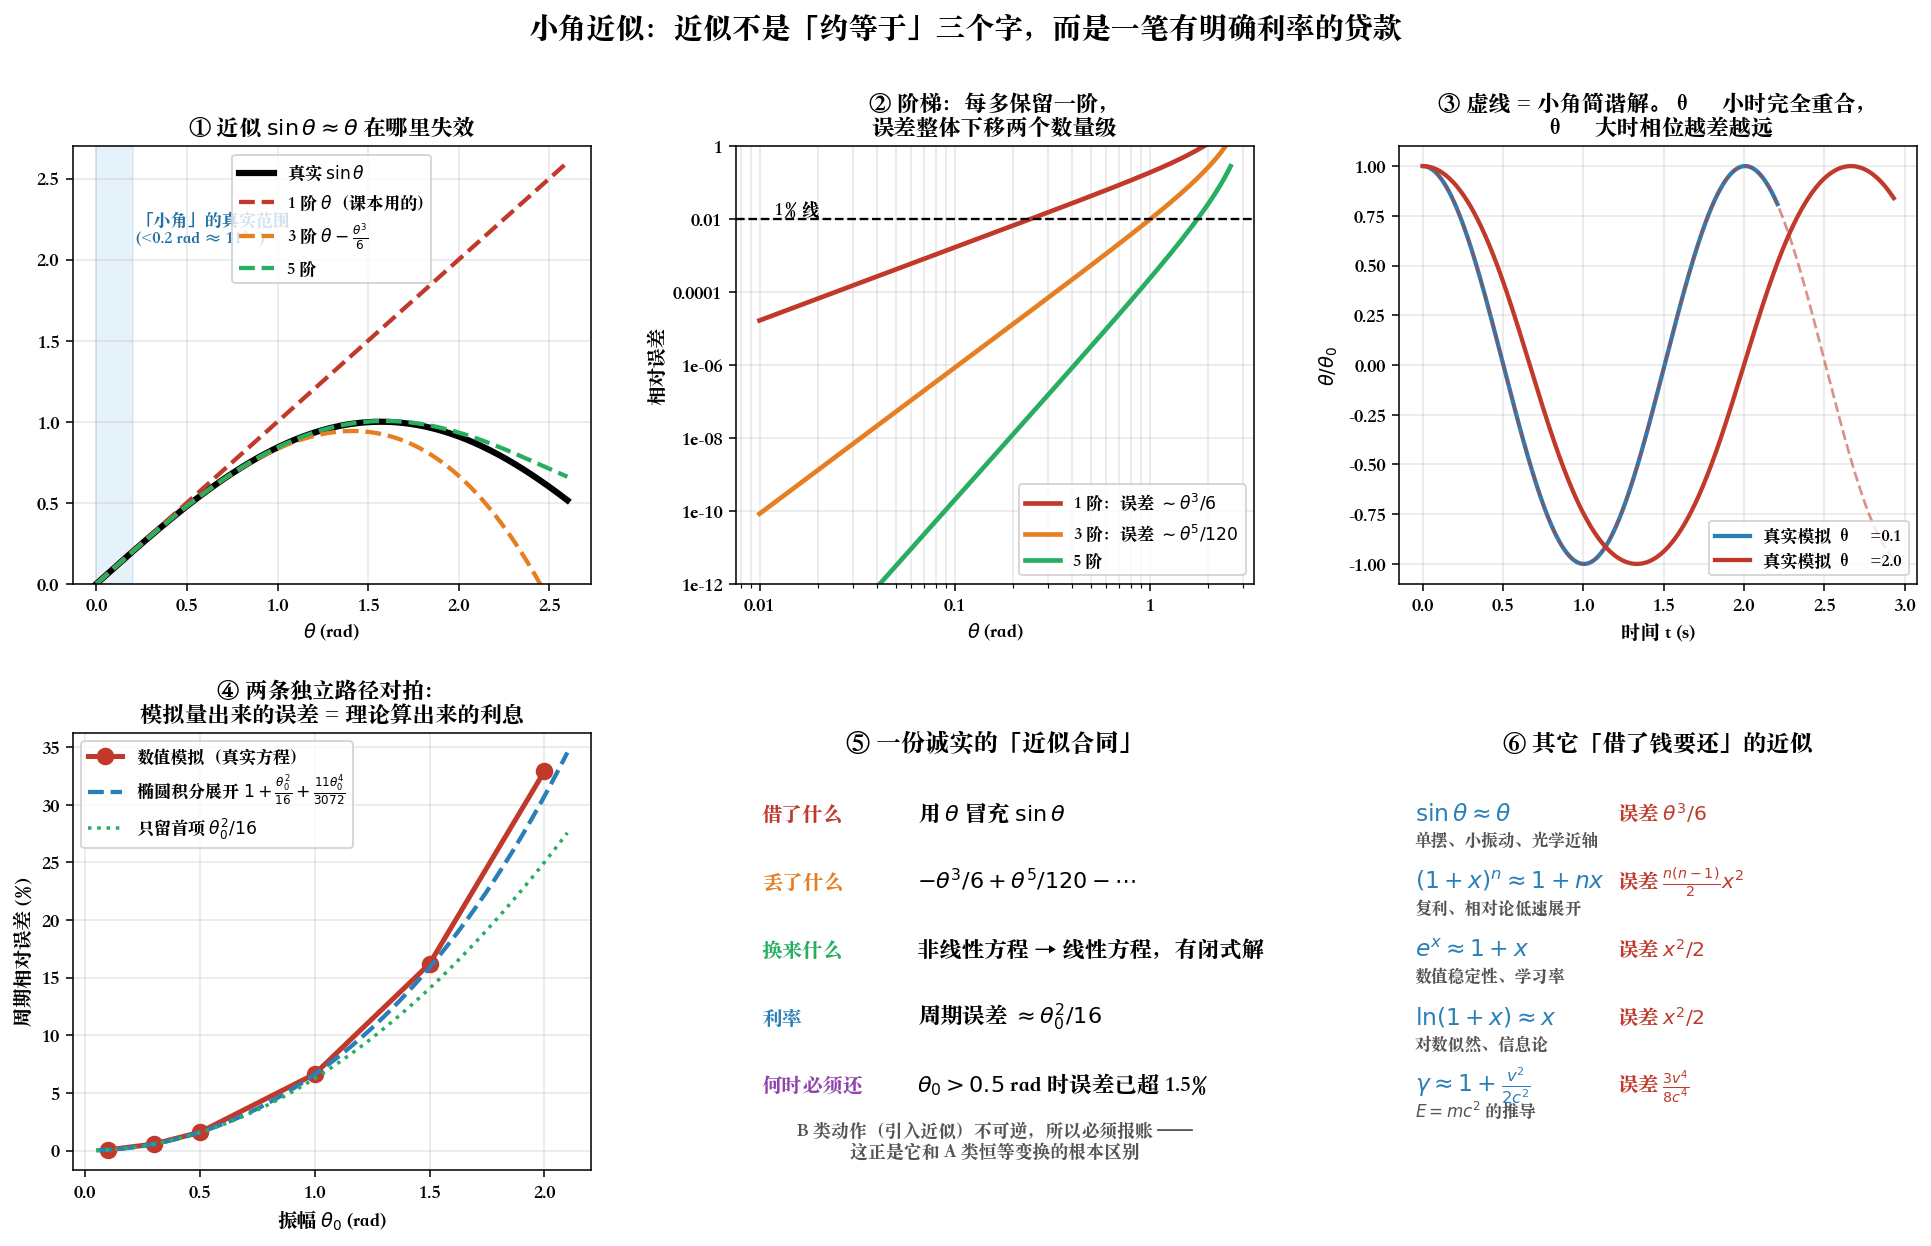
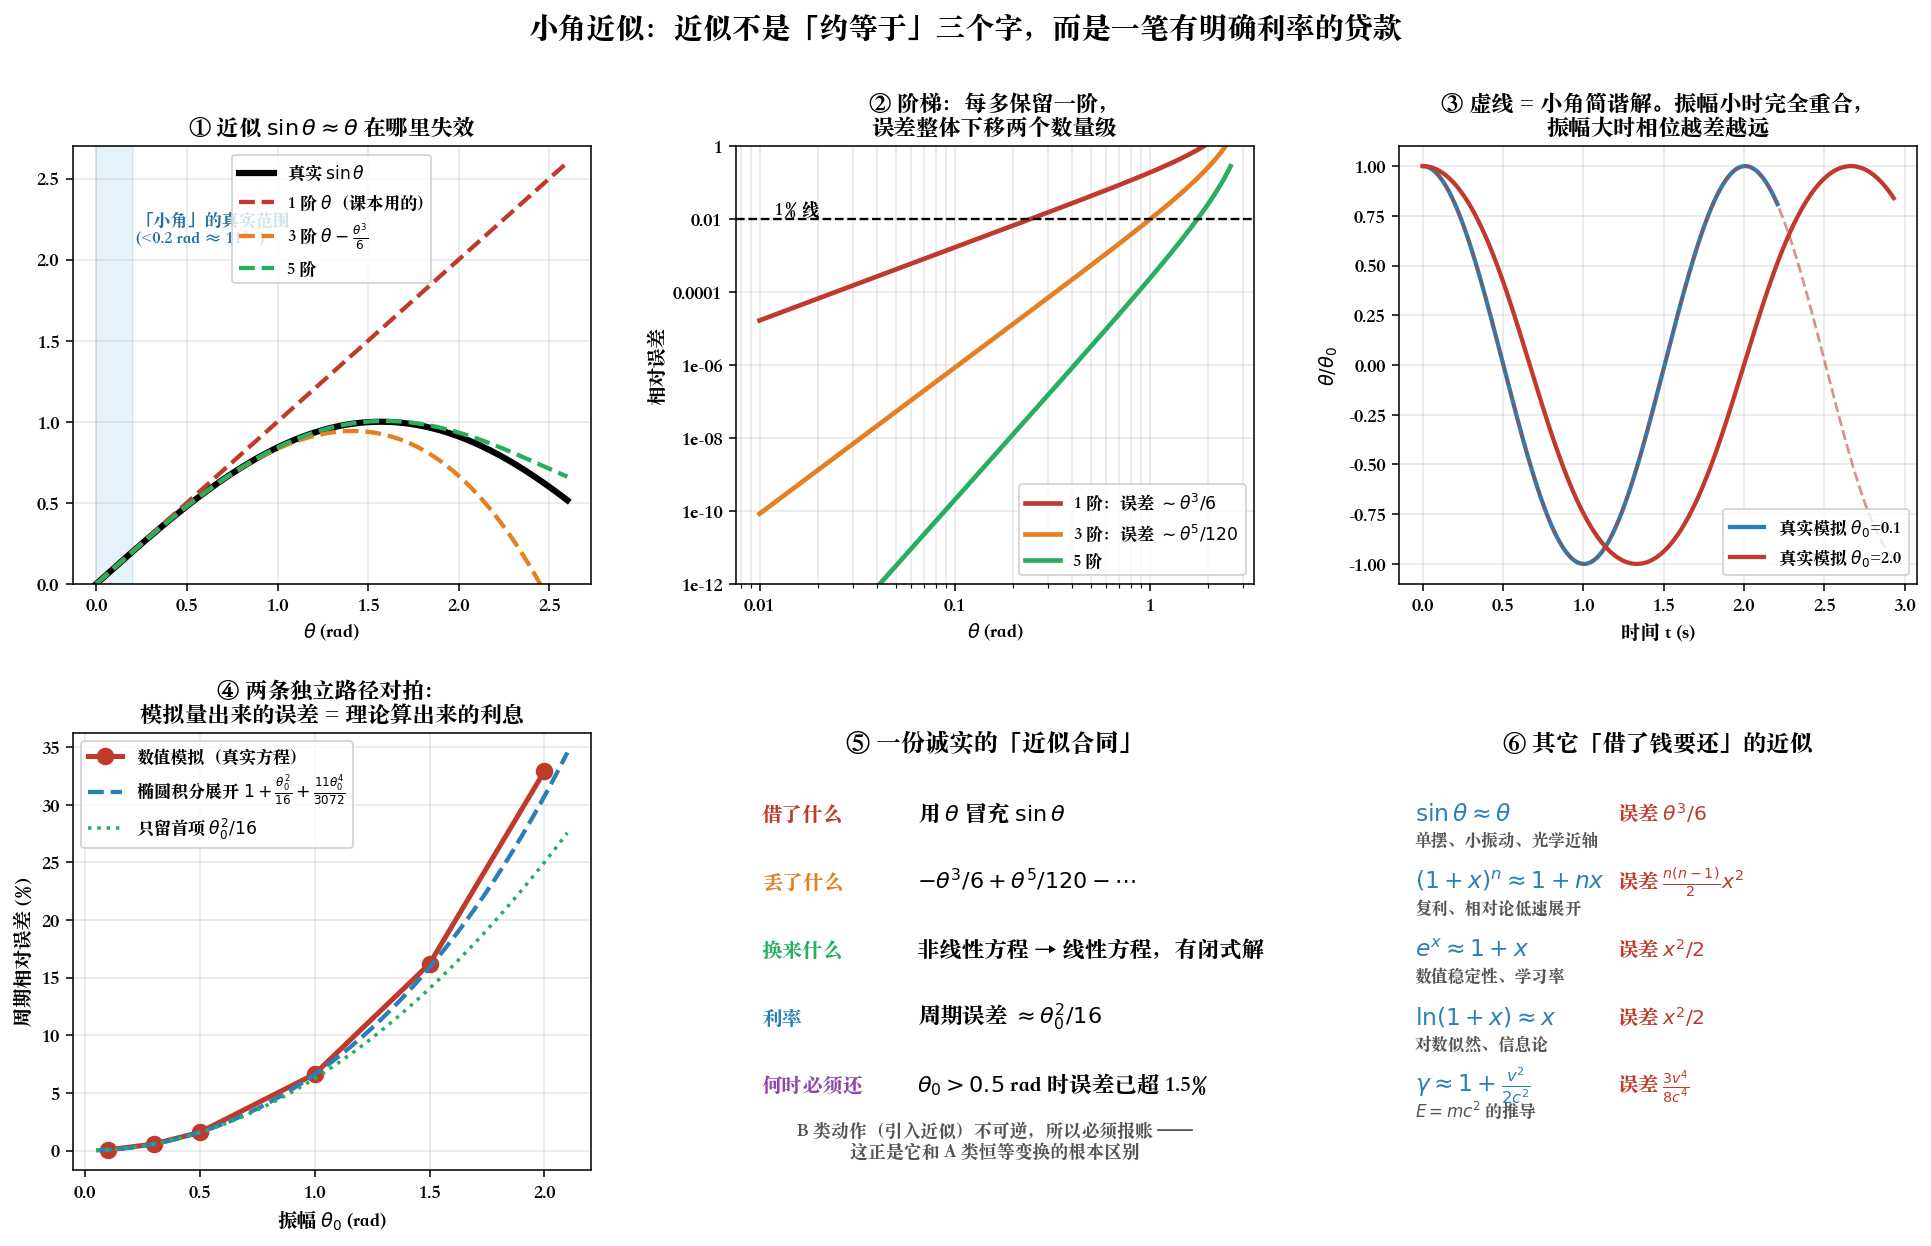
update

Changed region(s): [[0.7457, 0.061, 0.9632, 0.122], [0.87, 0.3965, 0.9943, 0.4575]]

diff --git a/ch00_98_deriving_formulas/derivation_fallacies.py b/ch00_98_deriving_formulas/derivation_fallacies.py
@@ -1,0 +1,251 @@
+"""derivation_fallacies.py
+================================================================================
+Chapter 0.98.5 · 推导是怎么坏掉的：五个经典陷阱与它们的崩溃点定位
+
+课本只给你走通了的那条路，从不给你看走死的那四十条。
+这个脚本反过来：**故意把推导做坏，然后精确定位它在第几步崩掉。**
+
+五个陷阱：
+  ① 除以可能为零的量        a² = ab  ⇒  a = b  （1 = 2 的经典假证明）
+  ② 换元忘掉雅可比          极坐标积分漏掉 r，答案差一个 √π 因子
+  ③ 近似阶数不齐            保留了 v² 却丢了另一个同阶项
+  ④ 随意交换极限/求和次序    条件收敛级数重排，可以收敛到任何数（黎曼重排定理）
+  ⑤ 循环论证                用结论的推论去证结论
+
+**每一次「两边同除」，都是一次没写出来的 `assert divisor != 0`。**
+大多数假证明都死在这一行缺失的断言上。
+
+Lean 版本见同目录 `CancelFallacy.lean` —— 那里更狠：
+**Lean 根本不让你写出那一步**，除非你先交出 `a - b ≠ 0` 的证明。
+
+可视化：
+  ① 1=2 假证明的逐步追踪：每步都对，直到某一步除数变成 0
+  ② 雅可比丢失的后果：三条路径的数值分叉
+  ③ 阶数不齐：只补一半的高阶项，误差反而不降
+  ④ 黎曼重排：同一个级数按不同顺序求和，收敛到不同的数
+  ⑤ 防御清单
+
+运行：  python ch00_98_deriving_formulas/derivation_fallacies.py
+================================================================================
+"""
+
+from pathlib import Path
+
+import matplotlib.pyplot as plt
+import numpy as np
+import sympy as sp
+from matplotlib.ticker import FuncFormatter
+
+PLAIN = FuncFormatter(lambda v, _: f"{v:g}")
+
+
+def fallacy_divide_by_zero():
+    """① 1 = 2：每一步都对，直到那一步。"""
+    a, b = sp.symbols('a b')
+    print("=" * 74)
+    print("陷阱 ① 除以可能为零的量 —— 经典的「1 = 2」")
+    print("=" * 74)
+    # 存成 (说明, 左边, 右边)，不能直接用 sp.Eq —— Eq(2,1) 会当场求值成 False
+    steps = [
+        ("设 a = b", a, b),
+        ("两边乘 a", a ** 2, a * b),
+        ("两边减 b²", a ** 2 - b ** 2, a * b - b ** 2),
+        ("因式分解", (a + b) * (a - b), b * (a - b)),
+        ("两边除以 (a-b)  ← 崩溃点", a + b, b),
+        ("代入 a = b", 2 * b, b),
+        ("两边除以 b", sp.Integer(2), sp.Integer(1)),
+    ]
+    for i, (what, lhs, rhs) in enumerate(steps, 1):
+        # 在 a = b 这个前提下检验每一步是否真的成立
+        holds = sp.simplify((lhs - rhs).subs(a, b)) == 0
+        mark = "OK  " if holds else "FAIL"
+        print(f"  第{i}步  [{mark}] {what:<28} {sp.Eq(lhs, rhs, evaluate=False)}")
+    print("\n  崩溃点在第 5 步：a = b ⇒ a - b = 0，而我们除以了它。")
+    print(f"  Sympy 也这么说： solve(a - b = 0, a) = {sp.solve(sp.Eq(a-b, 0), a)}")
+    print("  防御：每一次「两边同除」，都是一次没写出来的 assert divisor != 0")
+    return steps
+
+
+def fallacy_jacobian():
+    """② 换元忘掉雅可比。"""
+    r, th, x = sp.symbols('r theta x', positive=True)
+    good = sp.sqrt(sp.integrate(sp.exp(-r ** 2) * r, (r, 0, sp.oo)) * 2 * sp.pi)
+    bad = sp.sqrt(sp.integrate(sp.exp(-r ** 2), (r, 0, sp.oo)) * 2 * sp.pi)
+    truth = sp.integrate(sp.exp(-x ** 2), (x, -sp.oo, sp.oo))
+    print("\n" + "=" * 74)
+    print("陷阱 ② 换元忘掉雅可比")
+    print("=" * 74)
+    print(f"  正确（dx dy = r dr dθ）: I = {good}  = {float(good):.6f}")
+    print(f"  漏掉 r                : I = {sp.simplify(bad)}  = {float(bad):.6f}")
+    print(f"  真值（一维直接积分）  : I = {truth}  = {float(truth):.6f}")
+    print("  防御：换元后立刻做一次数值对拍，雅可比丢没丢，一眼看出")
+    return float(good), float(bad)
+
+
+def fallacy_mixed_order():
+    """③ 近似阶数不齐：只补一半的二阶项，误差不降反可能更糟。"""
+    print("\n" + "=" * 74)
+    print("陷阱 ③ 近似阶数不齐")
+    print("=" * 74)
+    print("  要算 f(x) = e^x · cos(x)，两边都展开到二阶才算「齐」：")
+    x = np.linspace(0, 1.2, 300)
+    exact = np.exp(x) * np.cos(x)
+    consistent = 1 + x                                   # 齐次一阶：e^x≈1+x, cos≈1
+    inconsistent = (1 + x + x ** 2 / 2) * 1              # 只给 e^x 补了二阶，cos 没补
+    both2 = (1 + x + x ** 2 / 2) * (1 - x ** 2 / 2)      # 两边都到二阶
+    for name, arr in (("一阶（齐）", consistent), ("阶数不齐", inconsistent),
+                      ("二阶（齐）", both2)):
+        print(f"    {name:<12} x=1.0 处误差 = "
+              f"{abs(np.interp(1.0, x, arr) - np.interp(1.0, x, exact)):.4f}")
+    print("  防御：全程统一展开到同一阶 —— 精度被最差的那一项拖死")
+    return x, exact, consistent, inconsistent, both2
+
+
+def fallacy_riemann():
+    """④ 随意交换求和次序：条件收敛级数可以重排到任何值。"""
+    print("\n" + "=" * 74)
+    print("陷阱 ④ 随意交换极限 / 求和次序（黎曼重排定理，1854）")
+    print("=" * 74)
+    n = 200_000
+    natural = sum((-1) ** (k + 1) / k for k in range(1, n + 1))
+    print(f"  自然次序 1 - 1/2 + 1/3 - ... = {natural:.6f}   (→ ln2 = {np.log(2):.6f})")
+    # 重排：两正一负
+    s, pos, neg = 0.0, 1, 2
+    order = []
+    for _ in range(n // 3):
+        s += 1 / pos + 1 / (pos + 2) - 1 / neg
+        order.append(s)
+        pos += 4
+        neg += 2
+    print(f"  重排（两正一负）      = {s:.6f}   (→ (3/2)ln2 = {1.5*np.log(2):.6f})")
+    print("  同一堆数，只是加的顺序不同，答案就变了 —— 因为它只是条件收敛")
+    print("  防御：交换次序需要绝对收敛 / 一致收敛；先做有限截断数值验证")
+    return np.array(order)
+
+
+def main():
+    steps = fallacy_divide_by_zero()
+    good, bad = fallacy_jacobian()
+    x, exact, consistent, inconsistent, both2 = fallacy_mixed_order()
+    order = fallacy_riemann()
+
+    print("\n" + "=" * 74)
+    print("陷阱 ⑤ 循环论证")
+    print("=" * 74)
+    print("  例：用 E=mc² 推出光子动量 p=E/c，再用 p=E/c 去「推」E=mc²。")
+    print("  这条链没有起点，什么也没证明。")
+    print("  防御：画依赖图 —— 每条前提从哪来？能不能追溯到实验事实或公理？")
+
+    fig = plt.figure(figsize=(17, 9.5))
+    gs = fig.add_gridspec(2, 3, hspace=.36, wspace=.28)
+
+    # ---- ① 1=2 的逐步追踪 --------------------------------------------------
+    ax = fig.add_subplot(gs[0, :2])
+    ax.axis("off")
+    ax.text(.5, .97, "① 「1 = 2」的逐步审计：崩溃点在第 5 步", ha="center",
+            transform=ax.transAxes, fontsize=13, fontweight="bold")
+    a, b = sp.symbols('a b')
+    for i, (what, lhs, rhs) in enumerate(steps):
+        holds = sp.simplify((lhs - rhs).subs(a, b)) == 0
+        y = .84 - i * .118
+        col = "#27ae60" if holds else "#c0392b"
+        ax.add_patch(plt.Rectangle((.02, y - .04), .075, .085, transform=ax.transAxes,
+                                   fc=col, ec="none"))
+        ax.text(.057, y, "OK" if holds else "FAIL", ha="center", va="center",
+                transform=ax.transAxes, fontsize=9.5, color="white", fontweight="bold")
+        ax.text(.12, y, f"${sp.latex(sp.Eq(lhs, rhs, evaluate=False))}$",
+                va="center", transform=ax.transAxes,
+                fontsize=14, color="k" if holds else "#c0392b")
+        ax.text(.46, y, what, va="center", transform=ax.transAxes, fontsize=10,
+                color="#555")
+        if not holds and i == 4:
+            ax.annotate("这里除以了 (a-b)，\n而 a=b ⇒ a-b=0",
+                        xy=(.44, y), xytext=(.66, y + .07), xycoords="axes fraction",
+                        fontsize=10, color="#c0392b", fontweight="bold",
+                        arrowprops=dict(arrowstyle="-|>", color="#c0392b", lw=2))
+    ax.text(.5, .03, "每一次「两边同除」，都是一次没写出来的 assert divisor != 0",
+            ha="center", transform=ax.transAxes, fontsize=10.5, style="italic",
+            color="#c0392b")
+
+    # ---- ② 雅可比 ----------------------------------------------------------
+    ax = fig.add_subplot(gs[0, 2])
+    ax.bar(["带雅可比\n（正确）", "漏掉 r\n（错误）", "一维真值\n（对拍）"],
+           [good, bad, float(np.sqrt(np.pi))],
+           color=["#27ae60", "#c0392b", "#2980b9"])
+    ax.axhline(np.sqrt(np.pi), color="#2980b9", ls="--", lw=1.4)
+    for i, v in enumerate([good, bad, np.sqrt(np.pi)]):
+        ax.text(i, v + .05, f"{v:.4f}", ha="center", fontsize=10, fontweight="bold")
+    ax.set_ylim(0, 2.9)
+    ax.set_title("② 换元忘雅可比：\n答案差一个因子，全盘皆错",
+                 fontsize=11.5, fontweight="bold")
+    ax.grid(alpha=.3, axis="y")
+
+    # ---- ③ 阶数不齐 --------------------------------------------------------
+    ax = fig.add_subplot(gs[1, 0])
+    ax.plot(x, exact, lw=3, color="k", label=r"真值 $e^x\cos x$")
+    ax.plot(x, consistent, lw=2.2, ls="--", color="#27ae60", label="一阶（齐）")
+    ax.plot(x, inconsistent, lw=2.2, ls="--", color="#c0392b",
+            label=r"阶数不齐（只给 $e^x$ 补二阶）")
+    ax.plot(x, both2, lw=2.2, ls="--", color="#2980b9", label="二阶（齐）")
+    ax.set_xlabel("x")
+    ax.set_title("③ 只补一半的高阶项，\n反而比老实的低阶近似更差",
+                 fontsize=11.5, fontweight="bold")
+    ax.legend(fontsize=8.8)
+    ax.grid(alpha=.3)
+
+    # ---- ④ 黎曼重排 --------------------------------------------------------
+    ax = fig.add_subplot(gs[1, 1])
+    n = np.arange(1, len(order) + 1)
+    ax.plot(n, order, lw=2, color="#c0392b", label="重排（两正一负）")
+    partial = np.cumsum([(-1) ** (k + 1) / k for k in range(1, len(order) + 1)])
+    ax.plot(n, partial, lw=2, color="#2980b9", label="自然次序")
+    ax.axhline(np.log(2), color="#2980b9", ls="--", lw=1.3)
+    ax.axhline(1.5 * np.log(2), color="#c0392b", ls="--", lw=1.3)
+    ax.text(len(order) * .55, np.log(2) - .06, r"$\ln 2$", fontsize=10, color="#2980b9")
+    ax.text(len(order) * .55, 1.5 * np.log(2) + .02, r"$\frac{3}{2}\ln 2$",
+            fontsize=10, color="#c0392b")
+    ax.set_xscale("log")
+    ax.xaxis.set_major_formatter(PLAIN)
+    ax.set_xlabel("累加了多少项")
+    ax.set_ylim(.4, 1.2)
+    ax.set_title("④ 黎曼重排：同一堆数，\n换个加法顺序就换了极限",
+                 fontsize=11.5, fontweight="bold")
+    ax.legend(fontsize=9, loc="lower right")
+    ax.grid(alpha=.3, which="both")
+
+    # ---- ⑤ 防御清单 --------------------------------------------------------
+    ax = fig.add_subplot(gs[1, 2])
+    ax.axis("off")
+    ax.text(.5, .96, "⑤ 五条防御", ha="center", transform=ax.transAxes,
+            fontsize=12.5, fontweight="bold")
+    rows = [
+        ("除以零", "每次消去都问「它可能为零吗」"),
+        ("忘雅可比", "换元后立刻数值对拍"),
+        ("阶数不齐", "全程统一展开到同一阶"),
+        ("换序", "先有限截断验证，再谈极限"),
+        ("循环论证", "画依赖图，追到实验事实或公理为止"),
+    ]
+    for i, (k, v) in enumerate(rows):
+        y = .78 - i * .155
+        ax.text(.05, y, k, transform=ax.transAxes, fontsize=11,
+                fontweight="bold", color="#c0392b")
+        ax.text(.05, y - .06, v, transform=ax.transAxes, fontsize=9.5, color="#333")
+    ax.text(.5, .04, "同目录 CancelFallacy.lean：Lean 根本不让你\n"
+                     "写出第 5 步 —— 除非先交出 a-b ≠ 0 的证明",
+            ha="center", transform=ax.transAxes, fontsize=9.5,
+            style="italic", color="#555")
+
+    fig.suptitle("推导是怎么坏掉的：五个经典陷阱，以及它们各自的崩溃点",
+                 fontsize=15, fontweight="bold")
+    out = Path(__file__).with_suffix(".png")
+    fig.savefig(out, dpi=140, bbox_inches="tight")
+    print(f"\n图已保存到 {out}")
+
+
+if __name__ == "__main__":
+    plt.rcParams["font.sans-serif"] = [
+        "PingFang SC", "Heiti SC", "Songti SC",
+        "Noto Sans CJK SC", "WenQuanYi Zen Hei", "Arial Unicode MS",
+    ]
+    plt.rcParams["axes.unicode_minus"] = False
+    main()

diff --git a/ch00_98_deriving_formulas/approximation_error_ladder.py b/ch00_98_deriving_formulas/approximation_error_ladder.py
@@ -156,7 +156,7 @@ def main():
                 color=col, alpha=.55)
     ax.set_xlabel("时间 t (s)")
     ax.set_ylabel(r"$\theta/\theta_0$")
-    ax.set_title("③ 虚线 = 小角简谐解。θ₀ 小时完全重合，\nθ₀ 大时相位越差越远",
+    ax.set_title("③ 虚线 = 小角简谐解。振幅小时完全重合，\n振幅大时相位越差越远",
                  fontsize=11.5, fontweight="bold")
     ax.legend(fontsize=8.8)
     ax.grid(alpha=.3)
